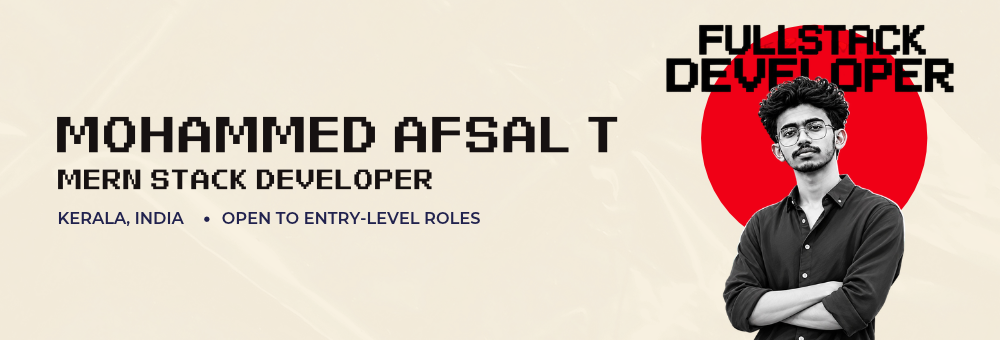
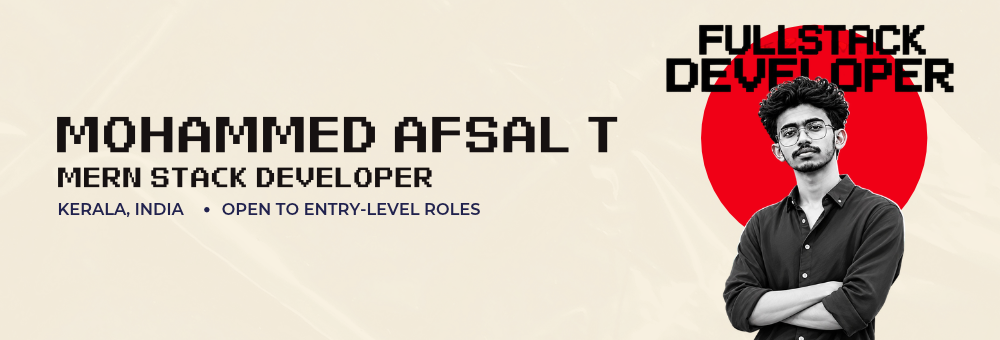
change About to Img

Changed region(s): [[0.062, 0.5882, 0.496, 0.6765], [0.062, 0.4706, 0.434, 0.5588]]

diff --git a/README.md b/README.md
@@ -17,16 +17,11 @@
 
 ## About
 
-```js
-const mohammedAfsal = {
-  role: "Full-Stack Developer | MERN Stack Developer",
-  location: "Kerala, India",
-  stack: ["React", "Node.js", "Express", "MongoDB", "Tailwind CSS"],
-  focus: ["Responsive web apps", "Secure REST APIs", "JWT auth & RBAC"],
-  openTo: "Entry-level developer roles",
-  portfolio: "https://afsalt.in",
-};
-```
+<div align="center">
+<img src="assets/About.png" alt="About Mohammed Afsal - Full-Stack Developer" width="100%" />
+</div>
+
+<br>
 
 I like owning a feature from end to end: the interface a user touches, the API behind it and the data underneath. I build responsive web applications, and I'm looking for an entry-level role where I can ship real features and keep growing.
 
